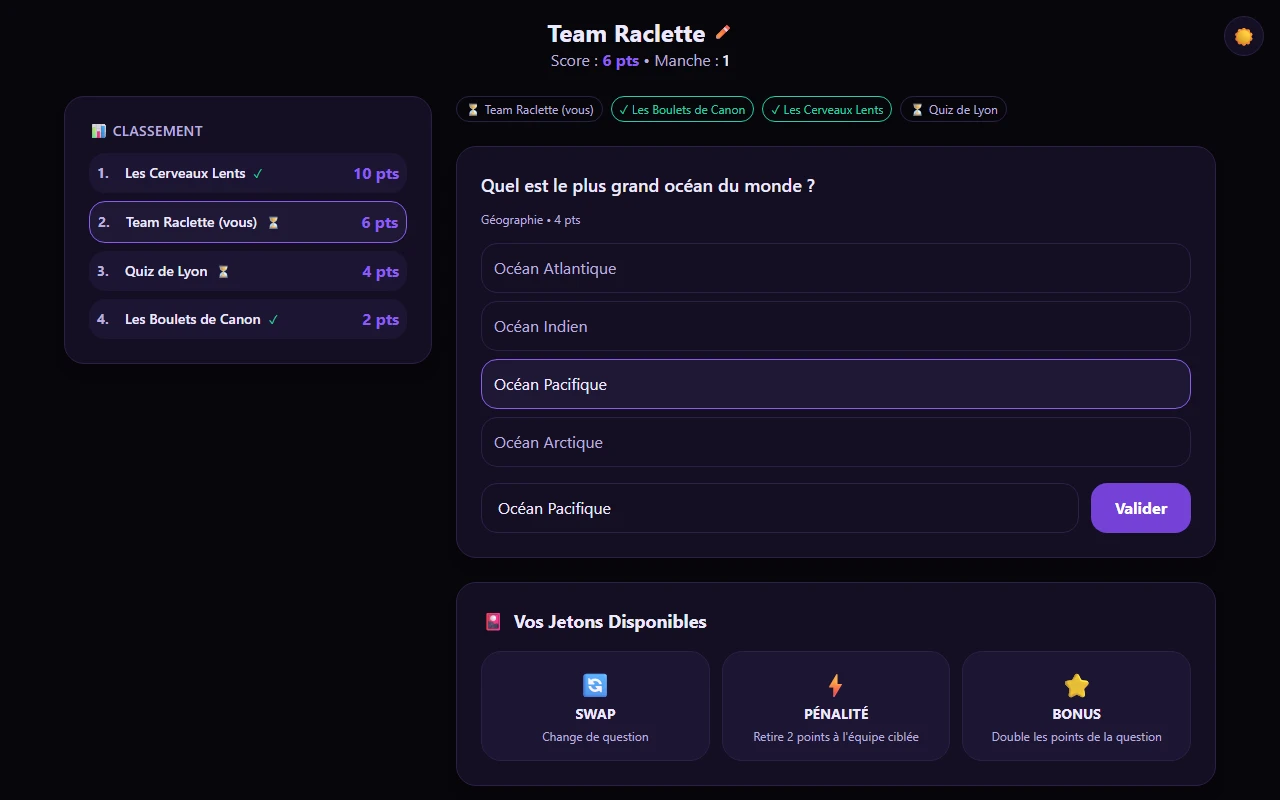
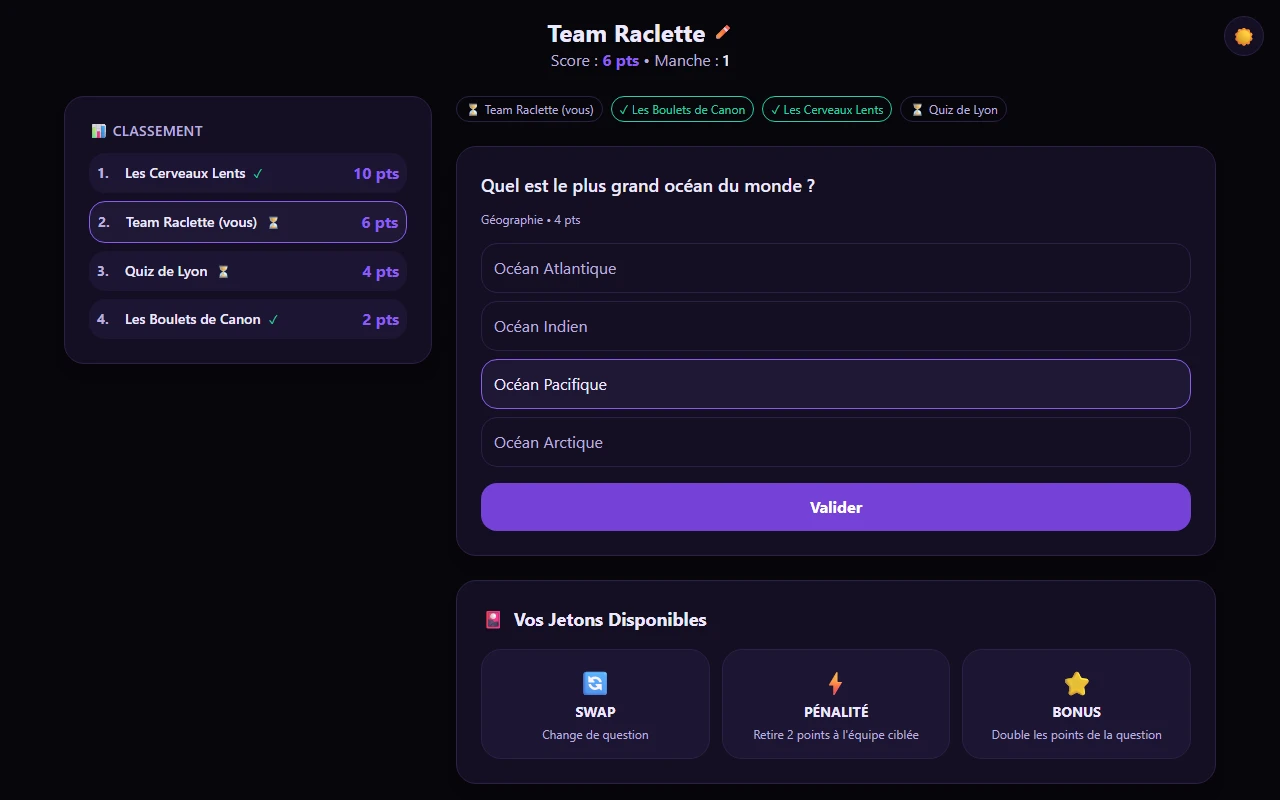
feat(manche1): retire la saisie libre, reponse par choix uniquement
La bonne reponse est toujours dans les propositions, le champ texte ne
servait a rien. Captures du carrousel de la Home regenerees.

diff --git a/frontend/src/pages/TeamScreen.tsx b/frontend/src/pages/TeamScreen.tsx
@@ -282,10 +282,10 @@ function TeamScreen() {
   // Quand la question change (ou disparaît), effacer le résultat local de la question précédente
   // Mais ne PAS effacer duelResult (le duel est indépendant de la question courante)
   // BUG-110 : synchroniser le champ avec la réponse d'équipe soumise par un
-  // coéquipier (polling), sans écraser une saisie en cours de frappe. On ne
-  // suit que si le champ local n'a pas divergé depuis la dernière valeur
+  // coéquipier (polling), sans écraser un choix pas encore envoyé. On ne
+  // suit que si le choix local n'a pas divergé depuis la dernière valeur
   // reçue du serveur (lastSyncedAnswerRef) — sinon l'utilisateur est en
-  // train de taper sa propre correction, on ne l'écrase pas.
+  // train de choisir sa propre correction, on ne l'écrase pas.
   const lastQuestionIdRef = useRef<number | null>(null)
   const lastSyncedAnswerRef = useRef('')
   useEffect(() => {
@@ -293,7 +293,7 @@ function TeamScreen() {
     const q = state.current_question
 
     if (lastQuestionIdRef.current !== q.id) {
-      // Nouvelle question : repartir d'un champ propre (vidé, ou pré-rempli
+      // Nouvelle question : repartir d'un choix vide (ou pré-rempli
       // si un coéquipier a déjà répondu avant que ce joueur ne charge l'état).
       lastQuestionIdRef.current = q.id
       const initial = q.current_team_answer ?? ''
@@ -359,7 +359,7 @@ function TeamScreen() {
         player_answer: submitted,
       })
       // La réponse soumise reste affichée (modifiable) — pas de setAnswer(''),
-      // sinon le prochain poll écraserait le champ avec la valeur qu'on vient
+      // sinon le prochain poll écraserait le choix avec la valeur qu'on vient
       // nous-mêmes d'envoyer (cf. lastSyncedAnswerRef dans l'effet de sync).
       lastSyncedAnswerRef.current = submitted
       await loadState()
@@ -707,6 +707,7 @@ function TeamScreen() {
                 <button
                   key={index}
                   onClick={() => setAnswer(option)}
+                  aria-pressed={answer === option}
                   className={`w-full text-left p-3 rounded-lg border transition-colors ${
                     answer === option
                       ? 'border-brand bg-brand-muted/20 text-text'
@@ -718,23 +719,13 @@ function TeamScreen() {
               ))}
             </div>
 
-            <div className="flex gap-3">
-              <input
-                type="text"
-                value={answer}
-                onChange={(e) => setAnswer(e.target.value)}
-                onKeyDown={(e) => e.key === 'Enter' && handleSubmitAnswer()}
-                placeholder="Ou tapez votre réponse..."
-                className="input-field flex-1"
-              />
-              <button
-                onClick={handleSubmitAnswer}
-                disabled={!answer.trim()}
-                className="btn-primary disabled:opacity-50"
-              >
-                Valider
-              </button>
-            </div>
+            <button
+              onClick={handleSubmitAnswer}
+              disabled={!answer.trim()}
+              className="btn-primary w-full disabled:opacity-50"
+            >
+              Valider
+            </button>
 
             {isHost && (
               <div className="mt-4 pt-4 border-t border-border">
